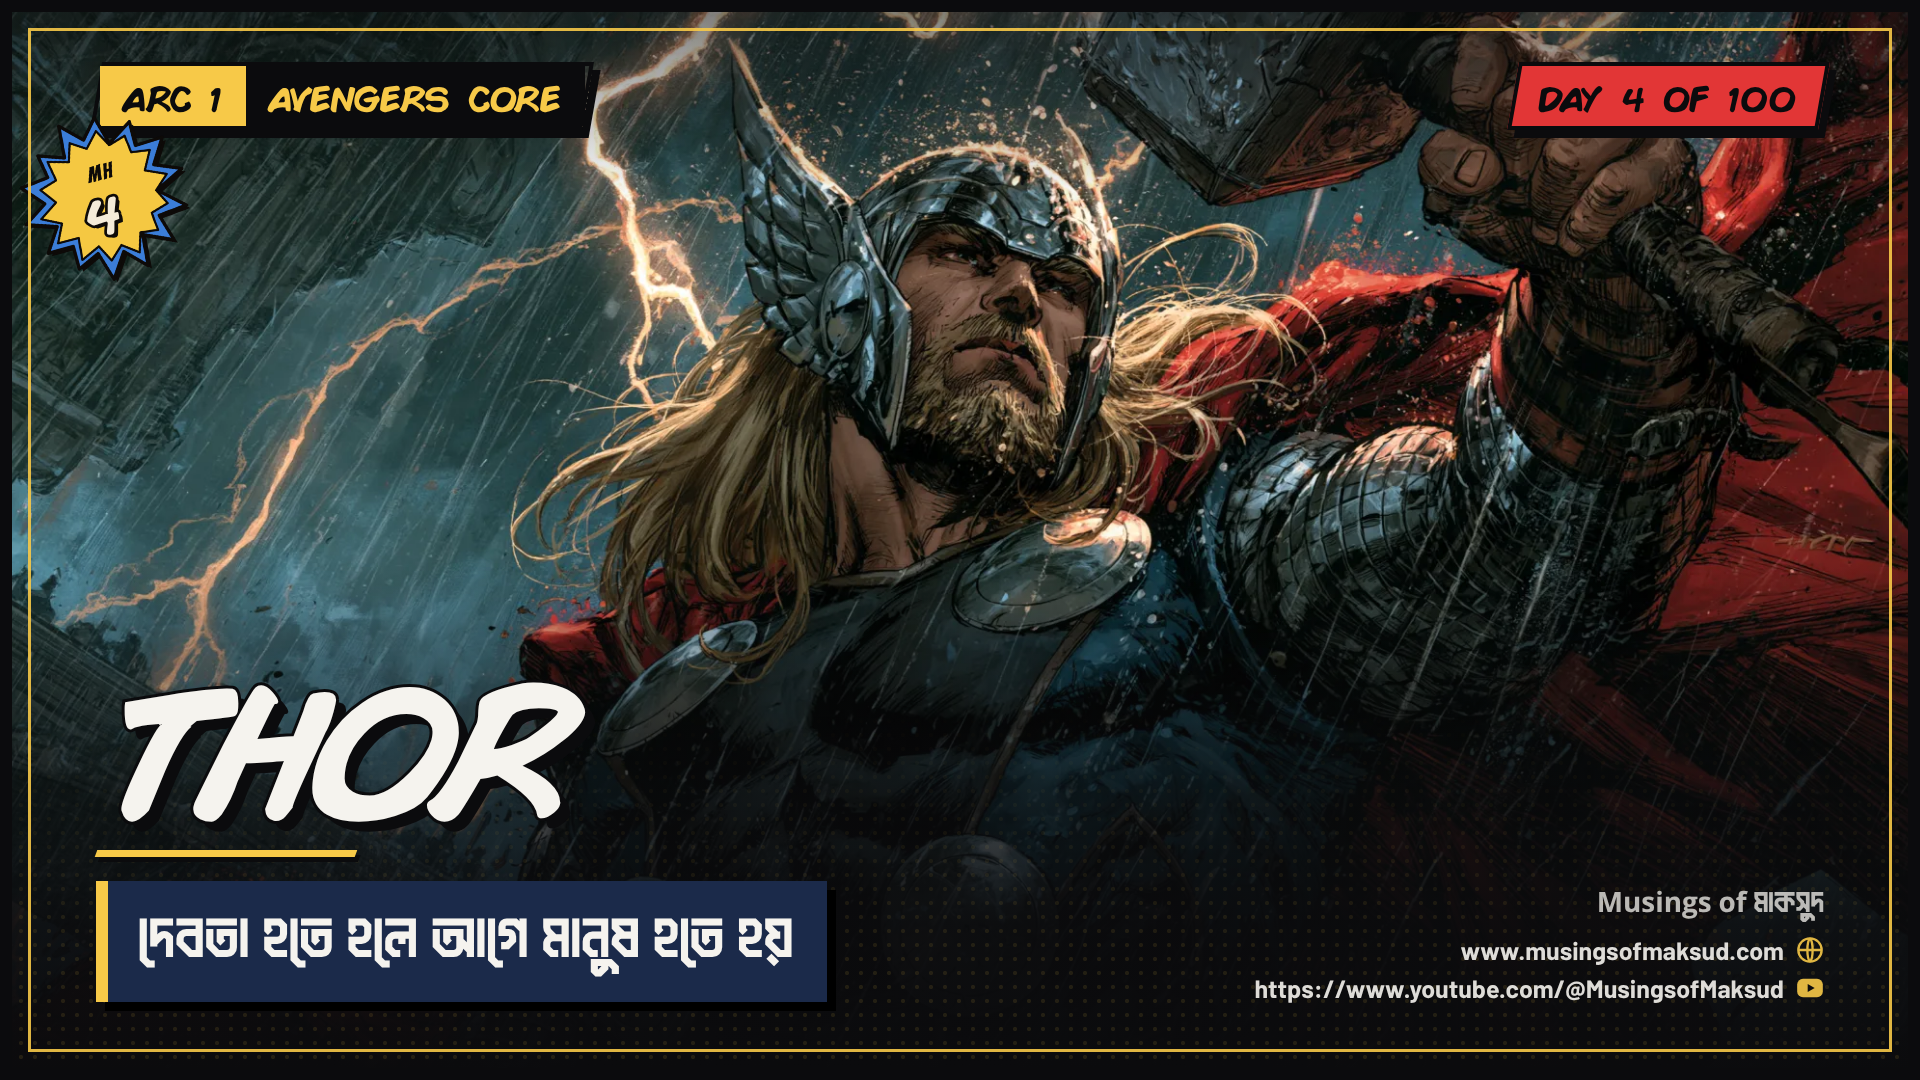
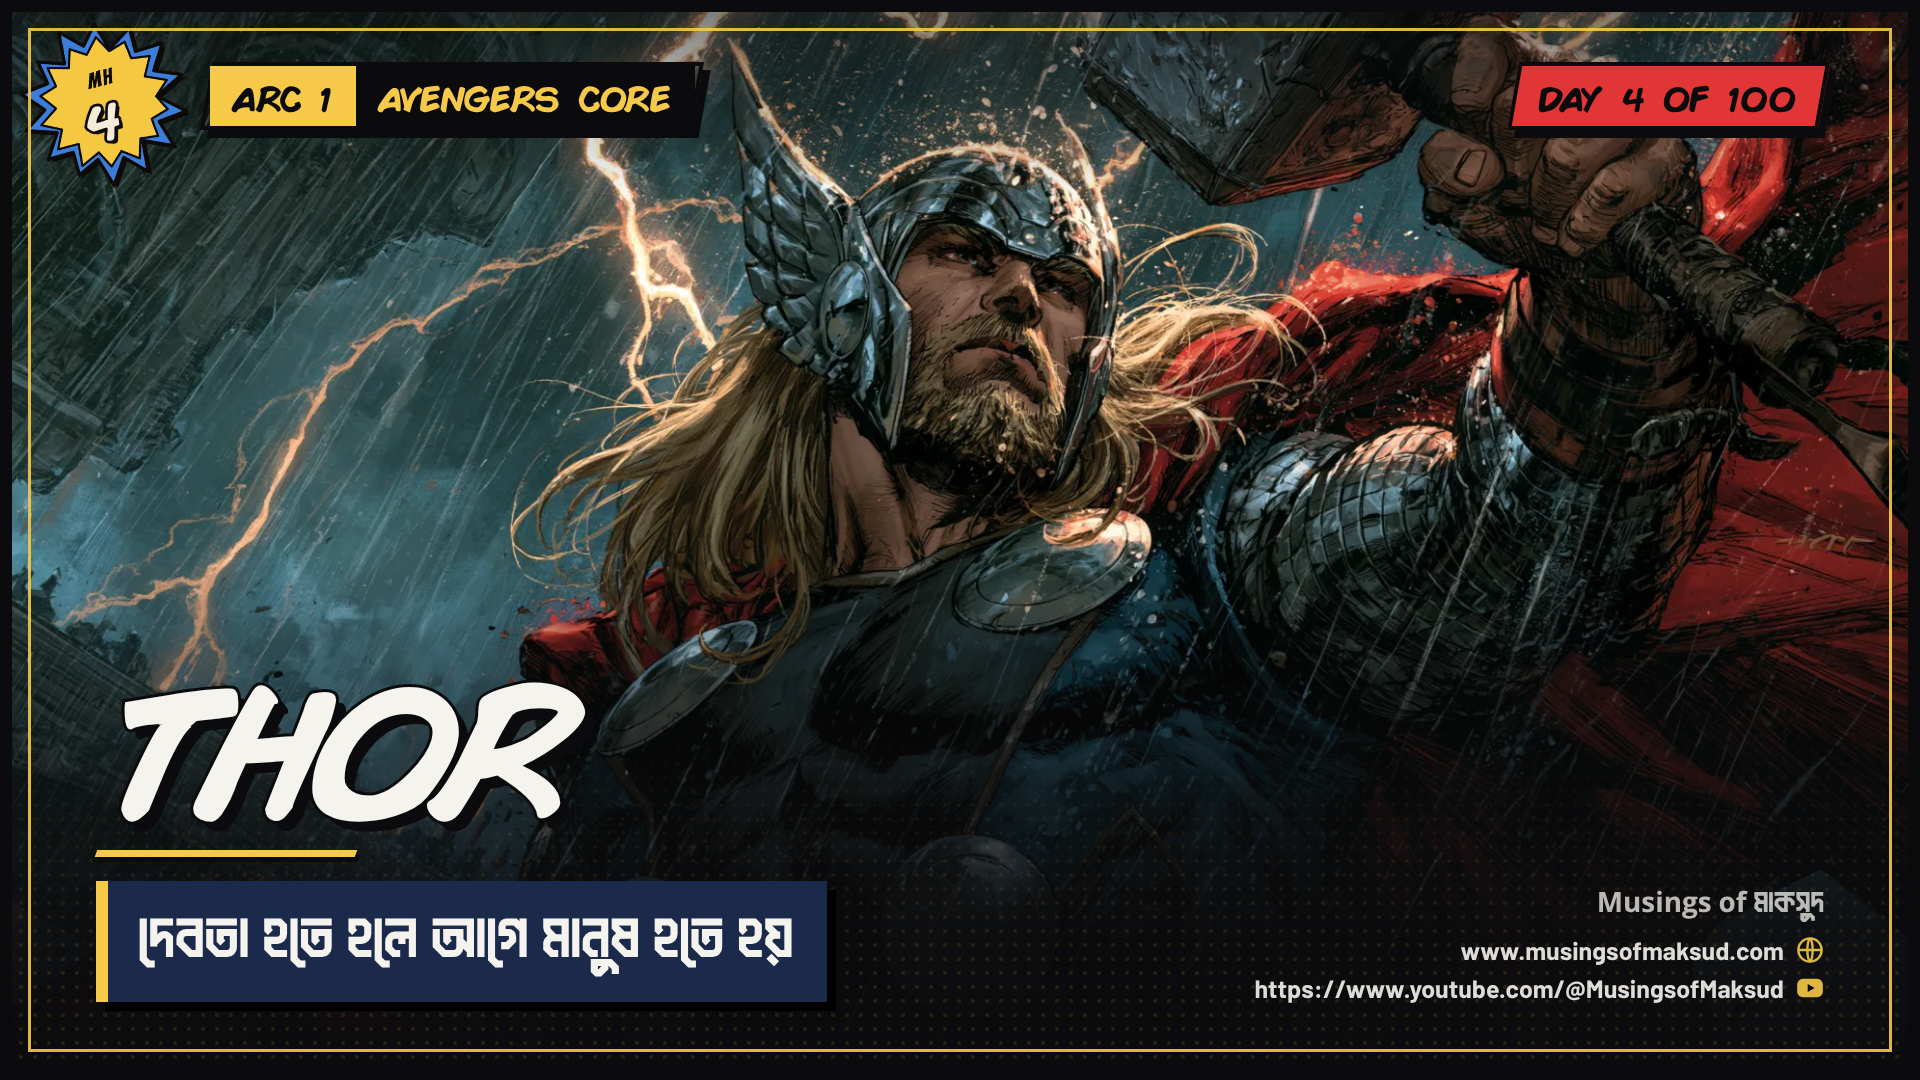
Put the MH stamp to the left of the ARC badge
The ARC badge moves right to make room; the stamp sits beside it in the
top-left corner. Top-left title position goes back to its original
height. All eleven cards re-rendered; docs updated.

Claude-Session: https://claude.ai/code/session_01M1ZHpzM7xsABALZbA4Syv2

Changed region(s): [[0.0, 0.0306, 0.375, 0.275]]

diff --git a/marvel-heroes/template/post.html b/marvel-heroes/template/post.html
@@ -45,7 +45,7 @@ html,body{width:1920px;height:1080px;background:var(--bg);overflow:hidden}
   border:4px solid var(--bg);box-shadow:8px 8px 0 var(--bg)}
 .badge span{display:block;transform:skewX(10deg);font-family:"CB Support";
   font-size:34px;line-height:1;letter-spacing:1px;text-transform:uppercase;padding:14px 22px 12px}
-#arc{left:96px}
+#arc{left:206px}   /* shifted right to make room for the MH stamp on its left */
 #arc .n{background:var(--accent);color:var(--bg)}
 #arc .name{background:var(--bg);color:var(--accent)}
 #day{right:96px;background:var(--title)}
@@ -55,15 +55,15 @@ html,body{width:1920px;height:1080px;background:var(--bg);overflow:hidden}
 #block{position:absolute;max-width:1728px}
 .p-bottom-left #block{left:96px;bottom:78px}
 .p-bottom-right #block{right:96px;bottom:78px;text-align:right}
-.p-top-left #block{left:96px;top:306px}   /* clears the MH stamp under the ARC badge */
+.p-top-left #block{left:96px;top:188px}
 .p-top-right #block{right:96px;top:188px;text-align:right}
 .p-middle #block{left:50%;top:50%;transform:translate(-50%,-50%);text-align:center}
 .p-bottom #block{left:50%;transform:translateX(-50%);text-align:center}
 .p-bottom-right #rule,.p-top-right #rule{margin-left:auto}
 .p-middle #rule,.p-bottom #rule{margin-left:auto;margin-right:auto}
 /* hero name with the MH number badge stuck on its end, like a comic sticker */
-/* MH number stamp: hangs off the bottom-left corner of the ARC badge (top-left), tilted like a sticker */
-#mh{position:absolute;left:22px;top:114px;width:170px;height:170px;transform:rotate(-7deg)}
+/* MH number stamp: sits to the left of the ARC badge (top-left corner), tilted like a sticker */
+#mh{position:absolute;left:22px;top:20px;width:170px;height:170px;transform:rotate(-7deg)}
 #mh .in{position:absolute;left:0;top:0;width:620px;height:620px;transform:scale(.2742);transform-origin:0 0}
 #mh img{position:absolute;inset:0;width:620px;height:620px;display:block}
 #mh .n{position:absolute;left:148px;top:262px;width:290px;height:190px;display:flex;align-items:center;justify-content:center;

diff --git a/marvel-heroes/tools/sheet.py b/marvel-heroes/tools/sheet.py
@@ -16,7 +16,7 @@ TW, TH, COLS, ROWS = 480, 270, 4, 3
 # approximate title zones in 1920x1080 canvas pixels (x0, y0, x1, y1)
 ZONES = {
     "bottom-left": (96, 640, 1300, 1002), "bottom-right": (620, 640, 1824, 1002),
-    "bottom": (330, 470, 1590, 820), "top-left": (96, 306, 1300, 650),
+    "bottom": (330, 470, 1590, 820), "top-left": (96, 188, 1300, 540),
     "top-right": (620, 188, 1824, 540), "middle": (330, 370, 1590, 710),
 }
 

diff --git a/marvel-heroes/README.md b/marvel-heroes/README.md
@@ -75,14 +75,13 @@ Pick the position that keeps the face clear:
 | `bottom-left` | bottom, left | bottom-right | Default. Face in the upper or centre area. Used for Days 1 to 5 and the opening |
 | `bottom-right` | bottom, right-aligned | moves to bottom-left | Subject sits low-left, face upper-left |
 | `bottom` | bottom, centred, raised above the signature | centred at the bottom | Face upper-centre, wide empty bottom |
-| `top-left` | below the MH stamp, left | bottom-right | Face low or on the right |
+| `top-left` | below the badges, left | bottom-right | Face low or on the right |
 | `top-right` | below the badges, right-aligned | bottom-right | Face low or on the left |
 | `middle` | centred, on a dark band | bottom-right | Face in the top third and the body below is empty |
 
 The top and middle positions darken the art behind the title, so only use them when the face
 is somewhere else. Render once and look: the face and mouth must be fully visible.
-Long Bangla lines shrink first, then wrap onto two lines. With `top-left` the title starts lower (306 px)
-to clear the MH stamp under the ARC badge.
+Long Bangla lines shrink first, then wrap onto two lines.
 
 ### Hero-name colour
 
@@ -105,11 +104,11 @@ To force a colour, set `"heroColor": "#F5F3EE"` (any of the three) in the post's
 
 ### MH badge and signature block
 
-- The MH stamp (`template/assets/mh-badge.png`, "MH" in the art, number drawn on top) hangs off the
-  bottom-left of the ARC badge, top-left, 170 px wide and tilted 7 degrees. It shows the post number:
+- The MH stamp (`template/assets/mh-badge.png`, "MH" in the art, number drawn on top) sits to the
+  left of the ARC badge in the top-left corner (the ARC badge is shifted right to make room), 170 px wide
+  and tilted 7 degrees. It shows the post number:
   `MH 0` for the opening, then `MH 1`, `MH 2` and so on. It follows `day`; set `"mh"` in the JSON only
-  to override. It is fixed in place. Check that it does not cover a face in the top-left corner (it did
-  on the opening, which is why it sits at the frame edge).
+  to override. It is fixed in place. Check that it does not cover a face in the top-left corner.
 - The signature block sits bottom-right (see `pos` for when it moves): `Musings of মাকসুদ`, then
   `www.musingsofmaksud.com` (globe icon), then `https://www.youtube.com/@MusingsofMaksud` (play icon).
   It is fixed in `template/post.html` (`SITE`, `YOUTUBE`); do not change it per day.
@@ -125,7 +124,7 @@ The image heading from each post is written as `MAIN / sub-line`. On the card:
 - **sub-line** = the Bangla line (`tagline`). Dabanol, comic paper `#F5F3EE`, on a night navy
   `#1B2A4A` caption box with a halftone-yellow left bar.
 - Top-left badge: `ARC N` (yellow) + arc name. Top-right badge: `DAY N OF 100` (red).
-- The MH stamp hangs under the ARC badge and the signature block sits bottom-right (see above).
+- The MH stamp sits left of the ARC badge and the signature block sits bottom-right (see above).
 - No em dashes or en dashes anywhere on the card. Proper nouns stay in English.
 - Rotate the shape of the Bangla sub-line from day to day (a fact, a quote, a single noun,
   a question). At most one mirrored "[A]-এর X, [B]-এর Y" line per batch of four.

diff --git a/marvel-heroes/TRANSFER_PROMPT.md b/marvel-heroes/TRANSFER_PROMPT.md
@@ -20,7 +20,7 @@ The folder contains:
 
 Requirements: Node with Playwright and Chromium, and Python 3 with Pillow and NumPy (WebP and the colour picker). `render.js` loads Playwright from `/opt/node22/lib/node_modules/playwright`; if it lives elsewhere, set the `PLAYWRIGHT` environment variable to its path. Do not run `playwright install` if a Chromium is already present.
 
-Check the setup by running `node marvel-heroes/template/render.js marvel-heroes/posts/day-001.json` and confirming the output matches the Day 1 card (1920x1080, MH 1 stamp under the ARC badge, signature block bottom-right, no "fonts failed to load" warning).
+Check the setup by running `node marvel-heroes/template/render.js marvel-heroes/posts/day-001.json` and confirming the output matches the Day 1 card (1920x1080, MH 1 stamp left of the ARC badge, signature block bottom-right, no "fonts failed to load" warning).
 
 ## 2. Making each day
 
@@ -45,7 +45,7 @@ Never edit `post.html` or `render.js` for a single day. If you think the templat
 - Default position, lower-left (see `pos`): the hero name in English (Comic Book Bold Italic, all caps, black stroke and hard offset shadow), a short yellow rule, then the Bangla sub-line (Dabanol, on a navy box with a yellow left bar).
 - Hero-name colour changes with the background. `render.js` picks red, yellow or paper white from the artwork's colour (rules are in `pick_color.py` and the README). Do not hard-code a colour unless I ask; if I do, set `heroColor` in the post's JSON to one of `#E23636`, `#F7C948`, `#F5F3EE`.
 - Bottom-right, stacked: `Musings of মাকসুদ`, `www.musingsofmaksud.com`, `https://www.youtube.com/@MusingsofMaksud`. These are fixed in the template and must stay identical on every day. There is no footer bar; do not add one.
-- The MH starburst stamp hangs off the bottom-left of the ARC badge (top-left, small, tilted slightly). It shows the post number (`MH 0` for the opening, then `MH 1`, `MH 2` and so on) and follows `day` automatically.
+- The MH starburst stamp sits to the left of the ARC badge in the top-left corner (small, tilted slightly; the ARC badge is shifted right to make room). It shows the post number (`MH 0` for the opening, then `MH 1`, `MH 2` and so on) and follows `day` automatically.
 - Art is full-bleed, fading into black at the bottom, with a thin yellow inner frame.
 
 ## 4. Check before showing me
